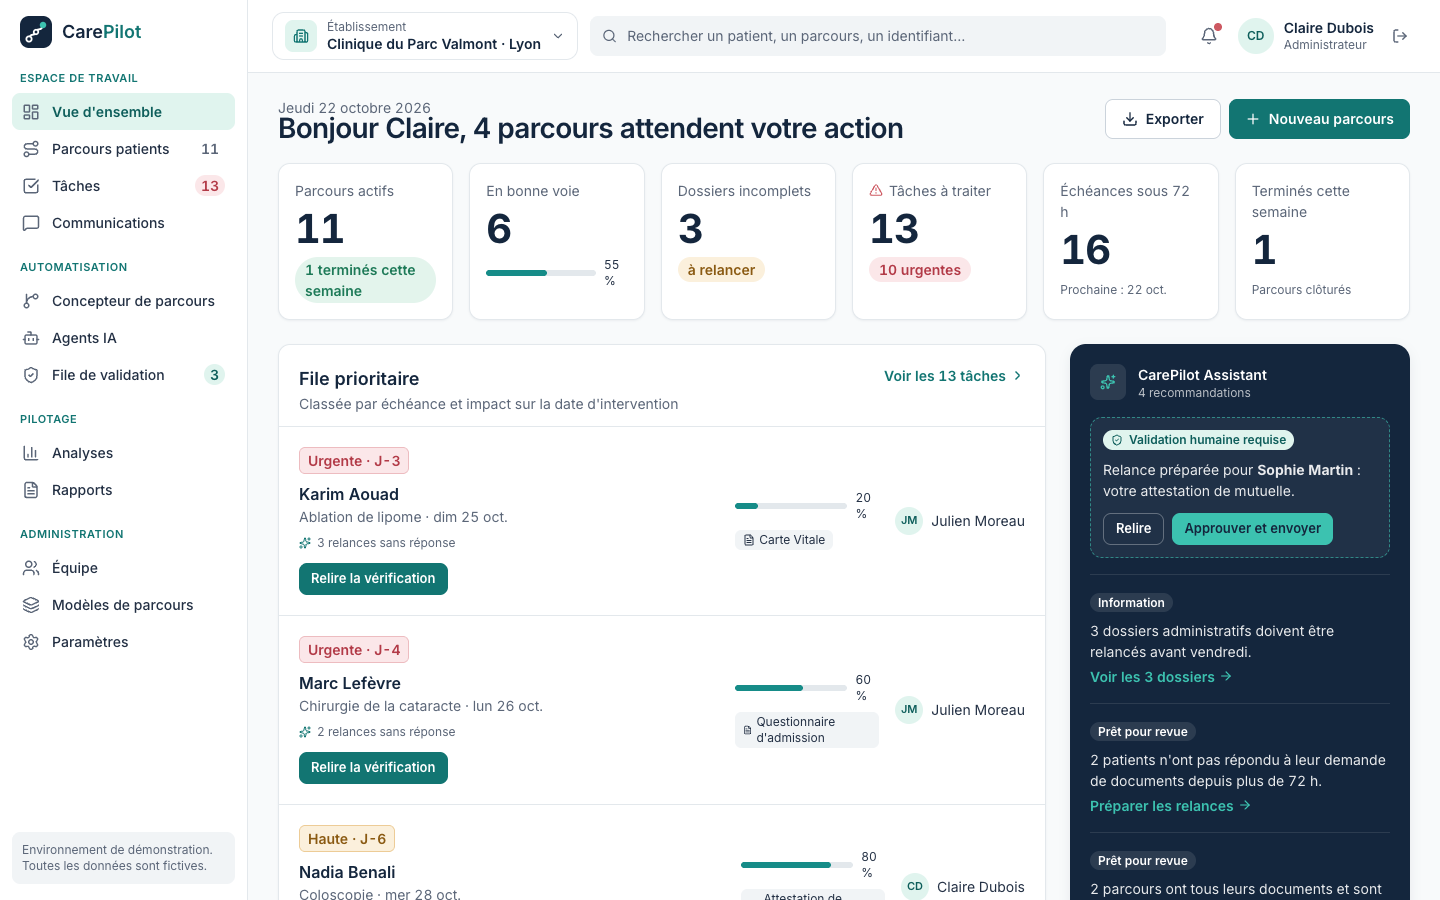
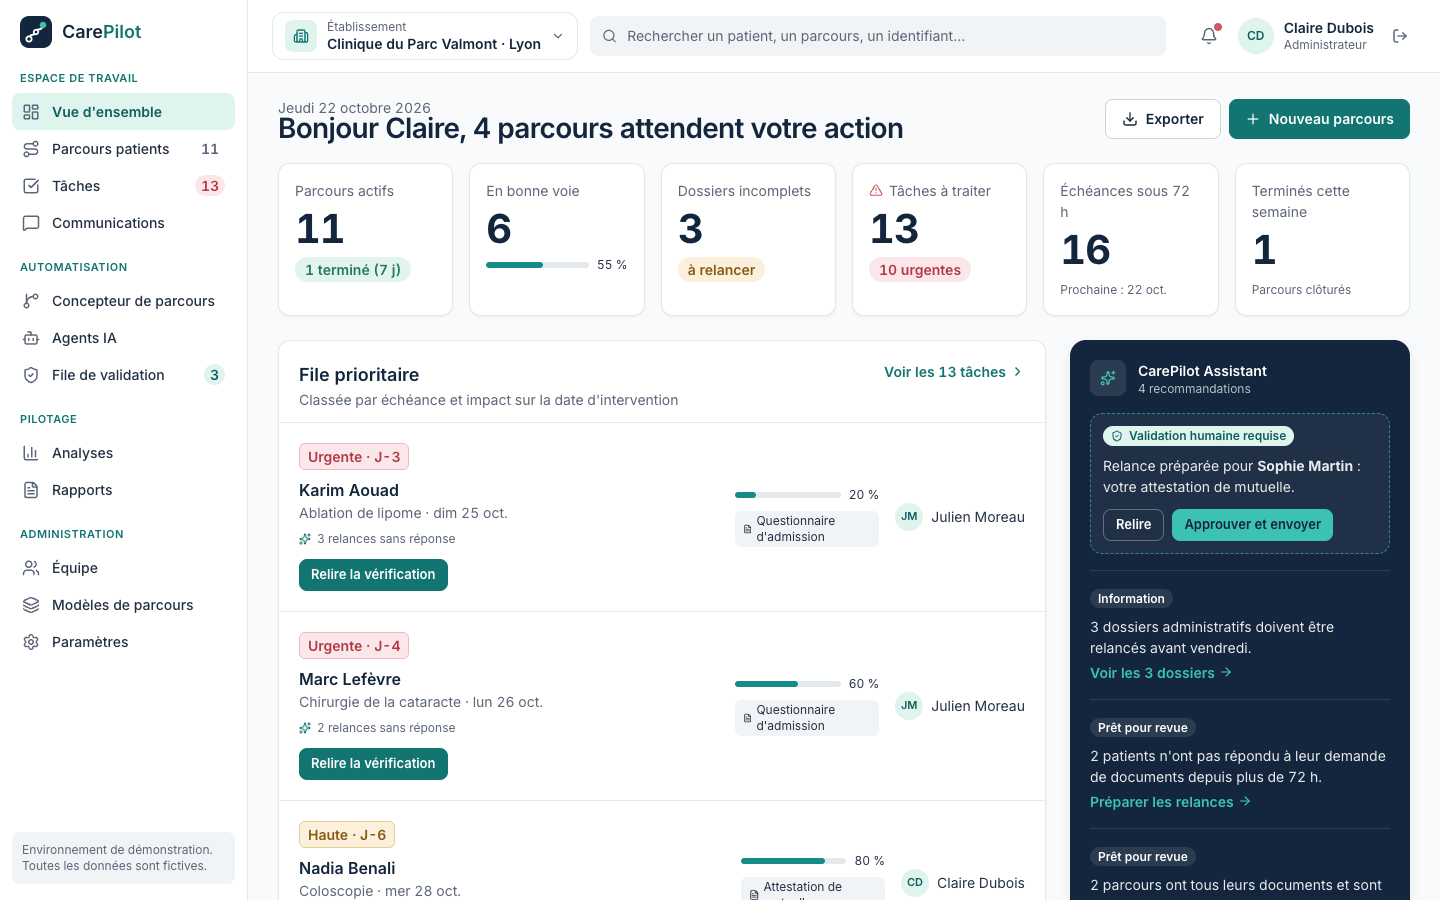
README: full-page dashboard screenshot; fix KPI/pill wrapping

diff --git a/apps/web/src/pages/Cockpit.tsx b/apps/web/src/pages/Cockpit.tsx
@@ -46,8 +46,8 @@ export default function CockpitPage() {
       </div>
 
       <div className="grid grid-cols-2 gap-4 lg:grid-cols-3 xl:grid-cols-6">
-        <Kpi label="Parcours actifs" value={k.active}><Pill tone="success">{k.finished_week} terminés cette semaine</Pill></Kpi>
-        <Kpi label="En bonne voie" value={k.on_track}><div className="flex items-center gap-2"><Progress value={k.on_track_pct} /><span className="text-meta tabular-nums">{k.on_track_pct} %</span></div></Kpi>
+        <Kpi label="Parcours actifs" value={k.active}><Pill tone="success">{k.finished_week} terminé{k.finished_week > 1 ? "s" : ""} (7 j)</Pill></Kpi>
+        <Kpi label="En bonne voie" value={k.on_track}><div className="flex items-center gap-2"><Progress value={k.on_track_pct} /><span className="whitespace-nowrap text-meta tabular-nums">{k.on_track_pct} %</span></div></Kpi>
         <Kpi label="Dossiers incomplets" value={k.incomplete}><Pill tone="warning">à relancer</Pill></Kpi>
         <Kpi label="Tâches à traiter" value={k.tasks_to_treat} warn><Pill tone="critical">{k.urgent} urgentes</Pill></Kpi>
         <Kpi label="Échéances sous 72 h" value={k.deadlines_72h}><span className="text-meta text-ink-2">{k.next_deadline ? `Prochaine : ${dayMonth(k.next_deadline)}` : "Aucune"}</span></Kpi>
@@ -76,7 +76,7 @@ export default function CockpitPage() {
                 </div>
                 <div className="flex min-w-[280px] items-center gap-4">
                   <div className="w-36">
-                    <div className="flex items-center gap-2"><Progress value={q.progress} /><span className="text-meta tabular-nums">{q.progress} %</span></div>
+                    <div className="flex items-center gap-2"><Progress value={q.progress} /><span className="whitespace-nowrap text-meta tabular-nums">{q.progress} %</span></div>
                     {q.next_doc && <span className="mt-2 inline-flex items-center gap-1 rounded-tag bg-surface-2 px-2 py-0.5 text-meta"><FileText size={12} />{q.next_doc}</span>}
                   </div>
                   <span className="flex items-center gap-2"><Avatar name={q.owner} />{q.owner}</span>

diff --git a/apps/web/src/components/JourneysTable.tsx b/apps/web/src/components/JourneysTable.tsx
@@ -33,7 +33,7 @@ export default function JourneysTable({ data, limit, query = "" }: { data: Journ
                 <td className="px-4 py-3">{r.procedure}</td>
                 <td className="px-4 py-3 tabular-nums">{shortDate(r.surgery_date)}<p className="text-meta text-ink-2">{r.days_to_surgery >= 0 ? jLabel(r.days_to_surgery) : `J+${-r.days_to_surgery}`}</p></td>
                 <td className="px-4 py-3">{r.stage}</td>
-                <td className="w-36 px-4 py-3"><div className="flex items-center gap-2"><Progress value={r.progress} /><span className="text-meta tabular-nums">{r.progress} %</span></div></td>
+                <td className="w-36 px-4 py-3"><div className="flex items-center gap-2"><Progress value={r.progress} /><span className="whitespace-nowrap text-meta tabular-nums">{r.progress} %</span></div></td>
                 <td className="px-4 py-3"><Pill tone={STATE_TONE[r.state]}>{r.state_label}</Pill></td>
                 <td className="px-4 py-3"><span className="flex items-center gap-2"><Avatar name={r.owner || "—"} />{r.owner}</span></td>
                 <td className="px-2"><Link aria-label={`Ouvrir ${r.patient_name}`} to={`/parcours/${r.journey_id}`} className="text-ink-2"><ChevronRight size={16} /></Link></td>

diff --git a/apps/web/src/components/ui.tsx b/apps/web/src/components/ui.tsx
@@ -37,7 +37,7 @@ const TONES = {
 } as const;
 export type Tone = keyof typeof TONES;
 export const Pill = ({ tone = "neutral", className, ...p }: React.HTMLAttributes<HTMLSpanElement> & { tone?: Tone }) => (
-  <span className={cn("inline-flex items-center gap-1 rounded-full px-2.5 py-0.5 text-meta font-semibold", TONES[tone], className)} {...p} />
+  <span className={cn("inline-flex items-center gap-1 whitespace-nowrap rounded-full px-2.5 py-0.5 text-meta font-semibold", TONES[tone], className)} {...p} />
 );
 /** Priorités : tags carrés, jamais en pilule. */
 export const PriorityTag = ({ priority, children }: { priority: "urgent" | "high" | "medium" | "ready"; children: React.ReactNode }) => {

diff --git a/README.md b/README.md
@@ -39,6 +39,8 @@ Each clinic only ever sees its own data.
 
 ### 1. Operations cockpit: "what needs me today?"
 
+![Operations cockpit, full page](docs/screenshots/01b-cockpit-full.png)
+
 The home page opens with a daily summary: active journeys, how many are on track, incomplete files, tasks to handle (with the urgent ones counted), deadlines within 72 hours, and journeys completed this week.
 
 - **Priority queue**, ranked by deadline and impact on the surgery date. Each card shows the patient, the procedure, the missing document, the owner and a one-click action.
